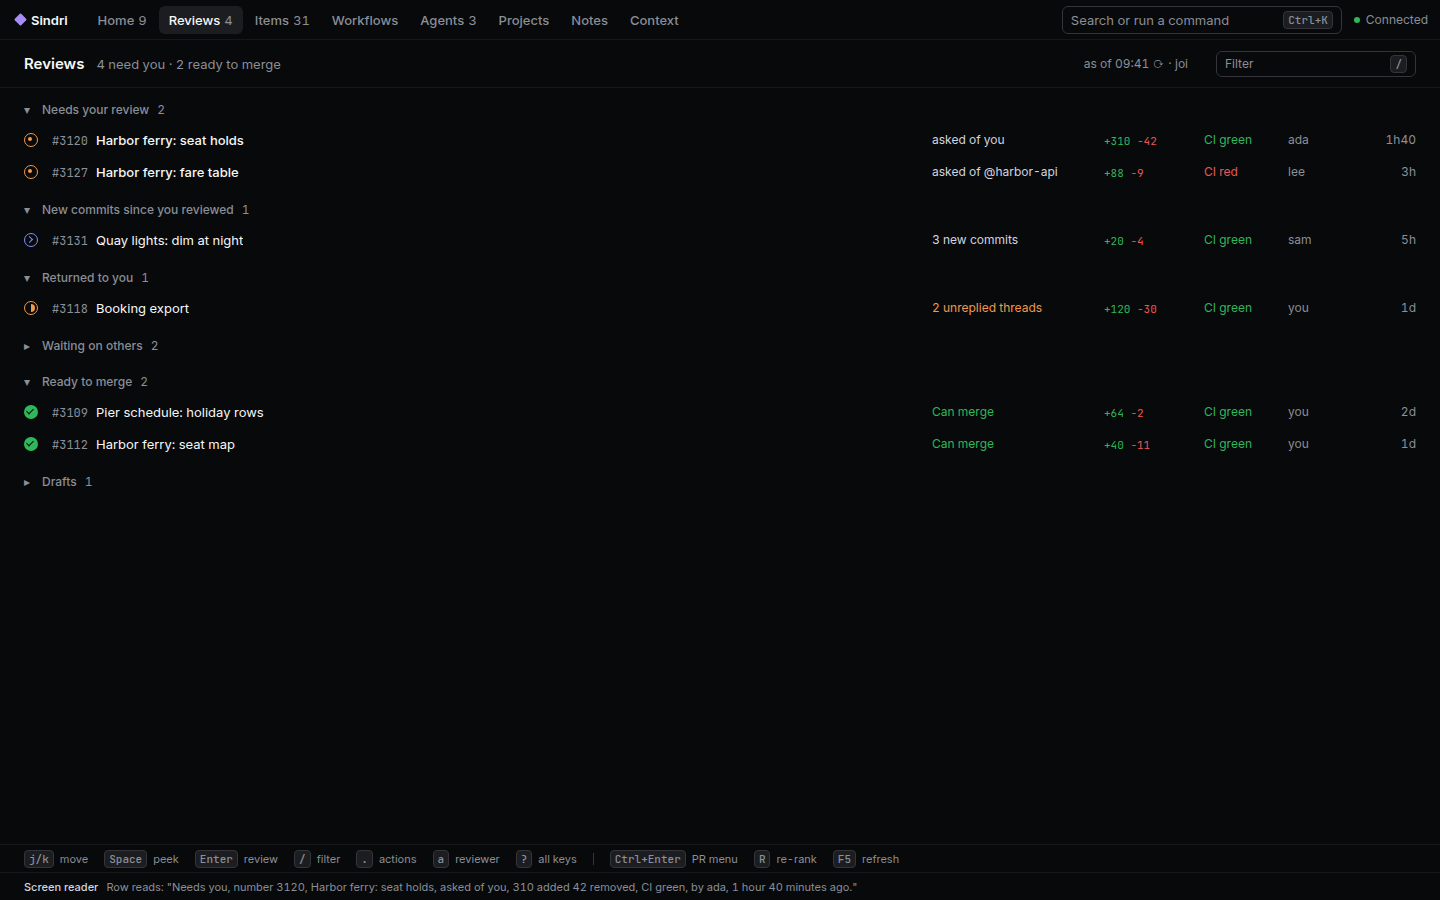
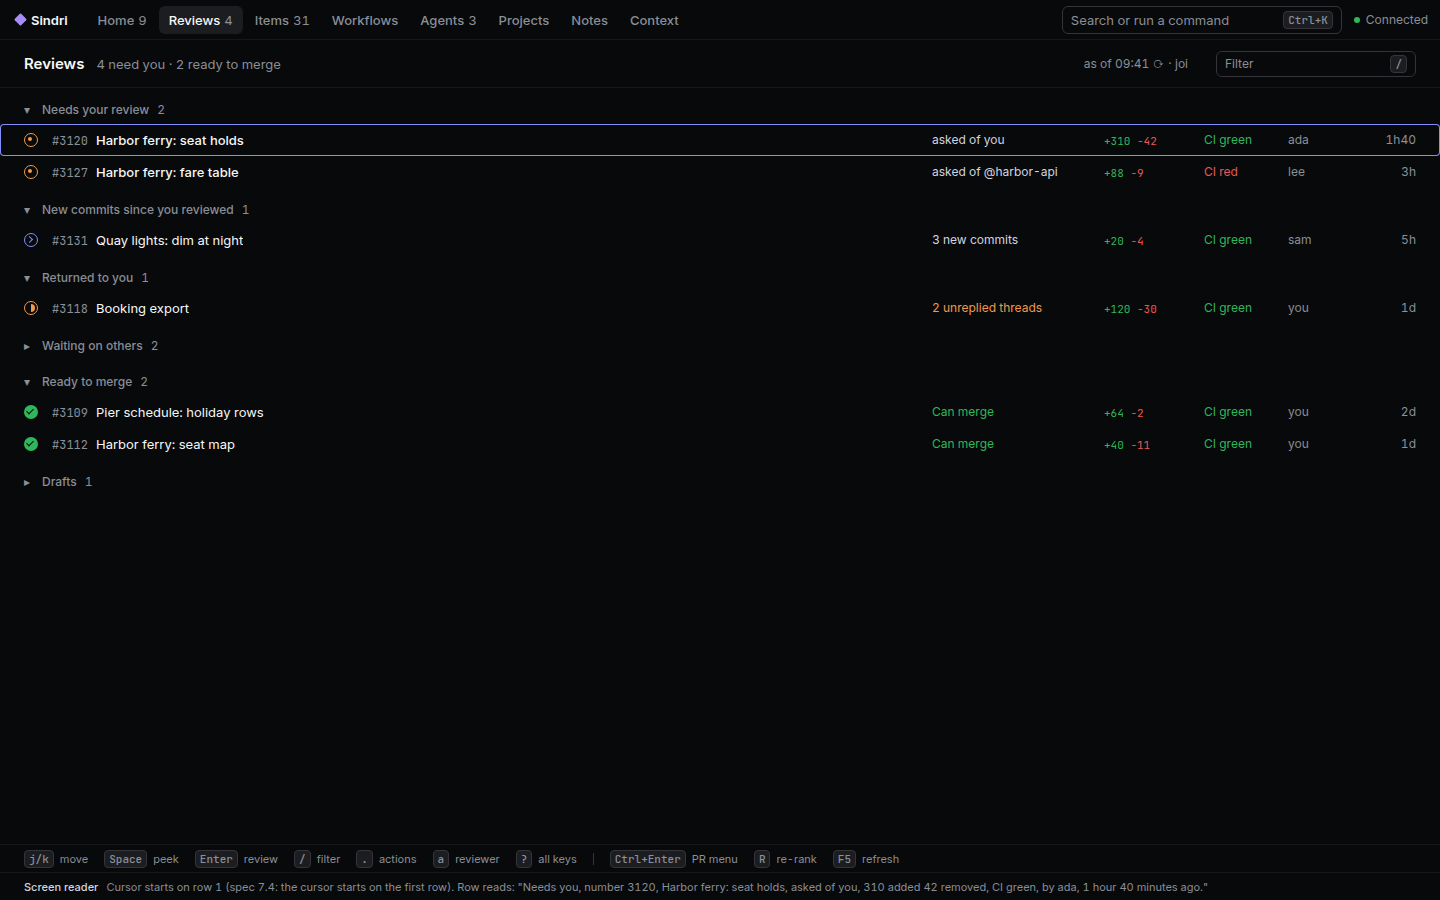
docs: Reviews UX pass, MUST 8 cursor ring on the queue, counts table (Part of #3177)

Changed region(s): [[0.0625, 0.9644, 0.8438, 0.9956]]

diff --git a/counts.md b/counts.md
@@ -1,0 +1,226 @@
+# Count spots by frame (prep for MUST 6 and MUST 4; no numbers picked)
+
+Generated from the frame HTML at b62867d9b6 plus the queue fix. `tick marks` = tree/list file rows drawn viewed (check mark); `tree/file rows` = file rows drawn in that frame (tree or file list, a failing file counts). Fixed-number sources in `gen.py` are listed at the end.
+
+| Frame | Spot | What it shows now |
+|---|---|---|
+| reviews-a-1200 | files count | 14 files +310 −42 |
+| reviews-a-1200 | viewed count | 5/14 viewed |
+| reviews-a-1200 | findings/risks | Findings 2 ; Pre-review: 2 findings, 2 left |
+| reviews-a-1200 | nav badge | Reviews 4 |
+| reviews-a-1200 | tick marks | 2 |
+| reviews-a-1200 | tree/file rows | 7 |
+| reviews-a-1440 | files count | 14 files +310 −42 |
+| reviews-a-1440 | viewed count | 5/14 viewed |
+| reviews-a-1440 | findings/risks | Findings 2 ; Pre-review: 2 findings, 2 left |
+| reviews-a-1440 | nav badge | Reviews 4 |
+| reviews-a-1440 | tick marks | 2 |
+| reviews-a-1440 | tree/file rows | 7 |
+| reviews-a-split-diff | files count | 14 files +310 −42 |
+| reviews-a-split-diff | viewed count | 5/14 viewed |
+| reviews-a-split-diff | findings/risks | Findings 2 ; Pre-review: 2 findings, 2 left |
+| reviews-a-split-diff | nav badge | Reviews 4 |
+| reviews-a-split-diff | tick marks | 2 |
+| reviews-a-split-diff | tree/file rows | 7 |
+| reviews-composer-suggestion | files count | 14 files +310 −42 |
+| reviews-composer-suggestion | viewed count | 5/14 viewed |
+| reviews-composer-suggestion | findings/risks | Findings 2 ; Pre-review: 2 findings, 2 left |
+| reviews-composer-suggestion | nav badge | Reviews 4 |
+| reviews-composer-suggestion | tick marks | 2 |
+| reviews-composer-suggestion | tree/file rows | 7 |
+| reviews-composer | files count | 14 files +310 −42 |
+| reviews-composer | viewed count | 5/14 viewed |
+| reviews-composer | findings/risks | Findings 2 ; Pre-review: 2 findings, 2 left |
+| reviews-composer | nav badge | Reviews 4 |
+| reviews-composer | tick marks | 2 |
+| reviews-composer | tree/file rows | 7 |
+| reviews-findings-states | findings/risks | 1 finding ; 2 new ; Findings 1 ; Findings 2 |
+| reviews-findings-states | nav badge | Reviews 4 |
+| reviews-focus-order | nav badge | Reviews 4 |
+| reviews-focus-rings | nav badge | Reviews 4 |
+| reviews-focus-rings | tick marks | 1 |
+| reviews-focus-rings | tree/file rows | 3 |
+| reviews-head-moved-banner | files count | 1 file ; 14 files +310 −42 |
+| reviews-head-moved-banner | viewed count | 5/14 viewed |
+| reviews-head-moved-banner | findings/risks | Findings 2 ; Pre-review: 2 findings, 2 left |
+| reviews-head-moved-banner | nav badge | Reviews 4 |
+| reviews-head-moved-banner | tick marks | 2 |
+| reviews-head-moved-banner | tree/file rows | 7 |
+| reviews-merge-conflict | files count | 2 files +64 −2 |
+| reviews-merge-conflict | viewed count | 2/2 viewed |
+| reviews-merge-conflict | nav badge | Reviews 4 |
+| reviews-merge-conflict | tick marks | 2 |
+| reviews-merge-conflict | tree/file rows | 7 |
+| reviews-merge-merging | files count | 2 files +64 −2 |
+| reviews-merge-merging | viewed count | 2/2 viewed |
+| reviews-merge-merging | nav badge | Reviews 4 |
+| reviews-merge-merging | tick marks | 2 |
+| reviews-merge-merging | tree/file rows | 7 |
+| reviews-merge-picker | files count | 2 files +64 −2 |
+| reviews-merge-picker | viewed count | 2/2 viewed |
+| reviews-merge-picker | nav badge | Reviews 4 |
+| reviews-merge-picker | tick marks | 2 |
+| reviews-merge-picker | tree/file rows | 7 |
+| reviews-motion | nav badge | Reviews 4 |
+| reviews-palette-no-match | files count | 14 files +310 −42 |
+| reviews-palette-no-match | viewed count | 5/14 viewed |
+| reviews-palette-no-match | findings/risks | Findings 2 ; Pre-review: 2 findings, 2 left |
+| reviews-palette-no-match | nav badge | Reviews 4 |
+| reviews-palette-no-match | tick marks | 2 |
+| reviews-palette-no-match | tree/file rows | 7 |
+| reviews-palette | files count | 14 files +310 −42 ; 3 files |
+| reviews-palette | viewed count | 5/14 viewed |
+| reviews-palette | findings/risks | Findings 2 ; Pre-review: 2 findings, 2 left |
+| reviews-palette | nav badge | Reviews 4 |
+| reviews-palette | file x of y | file 1 of 14 ; file 3 of 14 ; file 4 of 14 |
+| reviews-palette | tick marks | 2 |
+| reviews-palette | tree/file rows | 7 |
+| reviews-queue-filtered-nothing | needs-you count | 4 need you · 2 ready to merge |
+| reviews-queue-filtered-nothing | nav badge | Reviews 4 |
+| reviews-queue-first-run | nav badge | Reviews 4 |
+| reviews-queue-partial | findings/risks | 3 new |
+| reviews-queue-partial | needs-you count | 4 need you · 2 ready to merge |
+| reviews-queue-partial | nav badge | Reviews 4 |
+| reviews-queue-peek-absent | files count | 14 files +310 −42  Asked |
+| reviews-queue-peek-absent | findings/risks | 3 new |
+| reviews-queue-peek-absent | needs-you count | 4 need you · 2 ready to merge |
+| reviews-queue-peek-absent | nav badge | Reviews 4 |
+| reviews-queue-peek-failed | files count | 14 files +310 −42  Asked |
+| reviews-queue-peek-failed | findings/risks | 3 new |
+| reviews-queue-peek-failed | needs-you count | 4 need you · 2 ready to merge |
+| reviews-queue-peek-failed | nav badge | Reviews 4 |
+| reviews-queue-peek-ready | files count | 2 files +64 −2  Review  approved |
+| reviews-queue-peek-ready | findings/risks | 3 new |
+| reviews-queue-peek-ready | needs-you count | 4 need you · 2 ready to merge |
+| reviews-queue-peek-ready | nav badge | Reviews 4 |
+| reviews-queue-peek-running | files count | 14 files +310 −42  Asked |
+| reviews-queue-peek-running | findings/risks | 3 findings ; 3 new |
+| reviews-queue-peek-running | needs-you count | 4 need you · 2 ready to merge |
+| reviews-queue-peek-running | nav badge | Reviews 4 |
+| reviews-queue-peek-stale | files count | 14 files +310 −42  Asked |
+| reviews-queue-peek-stale | findings/risks | 3 new ; 6 findings |
+| reviews-queue-peek-stale | needs-you count | 4 need you · 2 ready to merge |
+| reviews-queue-peek-stale | nav badge | Reviews 4 |
+| reviews-queue-serve-down-cache | findings/risks | 3 new |
+| reviews-queue-serve-down-cache | needs-you count | 4 need you · 2 ready to merge |
+| reviews-queue-serve-down-cache | nav badge | Reviews 4 |
+| reviews-queue-serve-down-nocache | nav badge | Reviews 4 |
+| reviews-queue | findings/risks | 3 new |
+| reviews-queue | needs-you count | 4 need you · 2 ready to merge |
+| reviews-queue | nav badge | Reviews 4 |
+| reviews-ready-line | files count | 2 files +31 −5 ; 2 files +64 −2 |
+| reviews-ready-line | viewed count | 2/2 viewed |
+| reviews-ready-line | nav badge | Reviews 4 |
+| reviews-reduced-motion | nav badge | Reviews 4 |
+| reviews-reviewer-picker | files count | 14 files +310 −42 |
+| reviews-reviewer-picker | viewed count | 5/14 viewed |
+| reviews-reviewer-picker | findings/risks | Findings 2 ; Pre-review: 2 findings, 2 left |
+| reviews-reviewer-picker | nav badge | Reviews 4 |
+| reviews-reviewer-picker | tick marks | 2 |
+| reviews-reviewer-picker | tree/file rows | 7 |
+| reviews-reviewer-states | nav badge | Reviews 4 |
+| reviews-since-review | files count | 11 files ; 3 files |
+| reviews-since-review | viewed count | 5/14 viewed |
+| reviews-since-review | findings/risks | 1 finding ; Findings 1 ; Pre-review: 2 findings, 2 left |
+| reviews-since-review | nav badge | Reviews 4 |
+| reviews-since-review | tree/file rows | 4 |
+| reviews-states-hover-pressed | nav badge | Reviews 4 |
+| reviews-states-hover-pressed | tree/file rows | 5 |
+| reviews-submit-discard-undo | files count | 14 files +310 −42 |
+| reviews-submit-discard-undo | viewed count | 5/14 viewed |
+| reviews-submit-discard-undo | findings/risks | Findings 2 ; Pre-review: 2 findings, 2 left |
+| reviews-submit-discard-undo | nav badge | Reviews 4 |
+| reviews-submit-discard-undo | tick marks | 2 |
+| reviews-submit-discard-undo | tree/file rows | 7 |
+| reviews-submit-empty | files count | 14 files +310 −42 |
+| reviews-submit-empty | viewed count | 5/14 viewed |
+| reviews-submit-empty | findings/risks | 2 findings ; Findings 2 ; Pre-review: 2 findings, 2 left |
+| reviews-submit-empty | nav badge | Reviews 4 |
+| reviews-submit-empty | tick marks | 2 |
+| reviews-submit-empty | tree/file rows | 7 |
+| reviews-submit-flagged | files count | 14 files +310 −42 |
+| reviews-submit-flagged | viewed count | 5/14 viewed |
+| reviews-submit-flagged | findings/risks | 2 findings ; Findings 2 ; Pre-review: 2 findings, 2 left |
+| reviews-submit-flagged | nav badge | Reviews 4 |
+| reviews-submit-flagged | tick marks | 2 |
+| reviews-submit-flagged | tree/file rows | 7 |
+| reviews-submit-head-moved | files count | 1 file ; 14 files +310 −42 |
+| reviews-submit-head-moved | viewed count | 5/14 viewed |
+| reviews-submit-head-moved | findings/risks | 2 findings ; Findings 2 ; Pre-review: 2 findings, 2 left |
+| reviews-submit-head-moved | nav badge | Reviews 4 |
+| reviews-submit-head-moved | tick marks | 2 |
+| reviews-submit-head-moved | tree/file rows | 7 |
+| reviews-submit-normal | files count | 14 files +310 −42 |
+| reviews-submit-normal | viewed count | 5/14 viewed |
+| reviews-submit-normal | findings/risks | 2 findings ; Findings 2 ; Pre-review: 2 findings, 2 left |
+| reviews-submit-normal | nav badge | Reviews 4 |
+| reviews-submit-normal | tick marks | 2 |
+| reviews-submit-normal | tree/file rows | 7 |
+| reviews-submit-offline | files count | 14 files +310 −42 |
+| reviews-submit-offline | viewed count | 5/14 viewed |
+| reviews-submit-offline | findings/risks | 2 findings ; Findings 2 ; Pre-review: 2 findings, 2 left |
+| reviews-submit-offline | nav badge | Reviews 4 |
+| reviews-submit-offline | tick marks | 2 |
+| reviews-submit-offline | tree/file rows | 7 |
+| reviews-threads-states | nav badge | Reviews 4 |
+| reviews-toast-merged | findings/risks | 3 new |
+| reviews-toast-merged | needs-you count | 4 need you · 1 ready to merge |
+| reviews-toast-merged | nav badge | Reviews 4 |
+| reviews-toast-posted | findings/risks | 3 new |
+| reviews-toast-posted | needs-you count | 3 need you · 2 ready to merge |
+| reviews-toast-posted | nav badge | Reviews 4 |
+| reviews-tree-failing-50of300 | files count | 300 files +5,210 −1,840 ; 60 files |
+| reviews-tree-failing-50of300 | viewed count | 5/300 viewed |
+| reviews-tree-failing-50of300 | findings/risks | Findings 2 |
+| reviews-tree-failing-50of300 | nav badge | Reviews 4 |
+| reviews-tree-failing-50of300 | tick marks | 2 |
+| reviews-tree-failing-50of300 | tree/file rows | 8 |
+| reviews-tree-states | files count | 14 files |
+| reviews-tree-states | nav badge | Reviews 4 |
+| reviews-tree-states | tick marks | 6 |
+| reviews-tree-states | tree/file rows | 24 |
+| reviews-walk-1000 | files count | 14 files +310 −42 |
+| reviews-walk-1000 | viewed count | 5/14 viewed |
+| reviews-walk-1000 | findings/risks | Findings 2 |
+| reviews-walk-1000 | nav badge | Reviews 4 |
+| reviews-walk-1000 | file x of y | file 3 of 14 |
+| reviews-walk-1200 | files count | 14 files +310 −42 |
+| reviews-walk-1200 | viewed count | 5/14 viewed |
+| reviews-walk-1200 | findings/risks | Findings 2 |
+| reviews-walk-1200 | nav badge | Reviews 4 |
+| reviews-walk-1200 | tick marks | 2 |
+| reviews-walk-1200 | tree/file rows | 8 |
+| reviews-walk-1280-popover | files count | 14 files +310 −42 |
+| reviews-walk-1280-popover | viewed count | 5/14 viewed |
+| reviews-walk-1280-popover | findings/risks | 2 new ; Findings 2 |
+| reviews-walk-1280-popover | nav badge | Reviews 4 |
+| reviews-walk-1280-popover | tick marks | 2 |
+| reviews-walk-1280-popover | tree/file rows | 8 |
+| reviews-walk-1440 | files count | 14 files +310 −42 |
+| reviews-walk-1440 | viewed count | 5/14 viewed |
+| reviews-walk-1440 | findings/risks | Findings 2 ; Pre-review: 2 findings, 2 left |
+| reviews-walk-1440 | nav badge | Reviews 4 |
+| reviews-walk-1440 | tick marks | 2 |
+| reviews-walk-1440 | tree/file rows | 8 |
+| reviews-walk-overview-1440 | files count | 14 files +310 −42 |
+| reviews-walk-overview-1440 | viewed count | 5/14 viewed |
+| reviews-walk-overview-1440 | findings/risks | Findings 2 ; Pre-review: 2 findings, 2 left ; Risks 2 · Questions 4 |
+| reviews-walk-overview-1440 | nav badge | Reviews 4 |
+| reviews-walk-overview-1440 | tick marks | 2 |
+| reviews-walk-overview-1440 | tree/file rows | 8 |
+
+## Where the numbers come from in gen.py (one pass to change)
+
+| Spot | gen.py place | Value now |
+|---|---|---|
+| Header files and viewed | `rhead(files=..., viewed=...)` defaults | 14 files +310 -42, 5/14 viewed |
+| Tree and file-list rows | `FILES` list (7 rows) plus "Folded 1 lockfile" | 8 rows incl. the lockfile; viewed marks on 2 (HoldEndpoint, HoldServiceTests) |
+| Palette hints | `PAL` rows "file N of 14" | 3 of 14, 4 of 14, 1 of 14 |
+| Walk 1000 counter | `walk(... tree_dd)` "file 3 of 14 in order" | 14 |
+| Pre-review header | `rhead(findings=...)` | 2 findings, 2 left |
+| Findings pane and chips | `findings_block`, `rhead(chips)` "Findings 2" | 2 |
+| Overview summary | `overview()` "Risks 2 · Questions 4" | 6 |
+| Overview Test plan | `card('Test plan', '4 of 6 steps')` | 6 steps |
+| Stale peek | `peek('stale')` "6 findings, 2 may point at moved lines" | 6 |
+| Needs-you header | `qhead(count='4 need you · 2 ready to merge')`, nav `Reviews 4` | 4 / 4 (toast-posted draws 3 need you with nav still 4) |
+| Queue section counts | `qrows()` group counts | Needs your review 2 (+ New commits 1 + Returned 1 = 4) |
